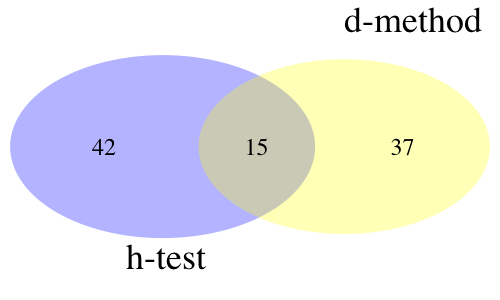
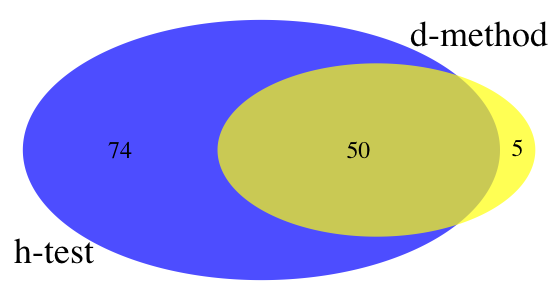
modify readme file

diff --git a/README.md b/README.md
@@ -194,7 +194,7 @@ title("d-method (with noise)", cex.main=7)
 mtext("(d)", side=3, padj=0,adj=0,cex=8)
 dev.off()
 ```
-The result is shown in Figure5 in the manuscript.
+The result is shown in Figure 5 in the manuscript.
 ![Image text](https://raw.githubusercontent.com/xizhou/co-occurrence-analysis/main/fig5.png)
 
 ## Applications
@@ -269,8 +269,9 @@ plot(g,vertex.size=2.5,vertex.label.cex=2)
 dev.off()
 ```
 
+The result is presented in Figure 2 in the manucript.
 
-"![Image text](https://raw.githubusercontent.com/xizhou/co-occurrence-analysis/main/fig2.png)"
+![Image text](https://raw.githubusercontent.com/xizhou/co-occurrence-analysis/main/fig2.png)
 
 
 **Comparison of results**
@@ -278,13 +279,10 @@ dev.off()
 We compare our results of our method with the results of original method. Then, we visualize the results of comparison.
 
 ```r
-idx <- which(rowSums(p==0,na.rm=TRUE)>0)
-vr <- v1[idx,idx]
-cat(rownames(vr),sep="\n")
-f <- fread("/Users/xizhou/Nutstore\ Files/Nutstore/mydoc/paper_threshold/data/venn.csv")
+library(data.table)
+f <- fread("./data/venn.csv",header=T)
 library(VennDiagram)
 library(scales)
-
 library(VennDiagram)
 venn.plot <- draw.pairwise.venn(
 area1 = length(f[!htest=="",htest]), 
@@ -295,25 +293,25 @@ fill = c("blue", "yellow"),
 lty = "blank",
 cex = 2, 
 cat.cex = 3,
-cat.pos = c(190, 0), 
-cat.dist = c(0.07,0.06), 
+cat.pos = c(230, 10), 
+cat.dist = c(0.07,0.03), 
 cat.just = list(c(0, 0), c(0, 0)),
 ext.pos = 0, 
-ext.dist = -0.05,
-ext.length = 0.85, 
+ext.dist = -0.13,
+ext.length =0, 
 ext.line.lwd = 2,
 ext.line.lty = "dashed",
-alpha=0.3,
+alpha=0.7,
 euler.d=T)
-png(filename="venn.png",width=500,height=300)
+png(filename="venn.png",width=550,height=300)
 grid.draw(venn.plot);
 dev.off()
 ```
 
-We can get the result like this:
+We can get the result (Figure 3):
 
 
-"![Image text](https://raw.githubusercontent.com/Miao-zhou/Co-occurrence-analysis/main/venn.png)"
+"![Image text](https://raw.githubusercontent.com/xizhou/co-occurrence-analysis/main/venn.png)"
 
 
 
